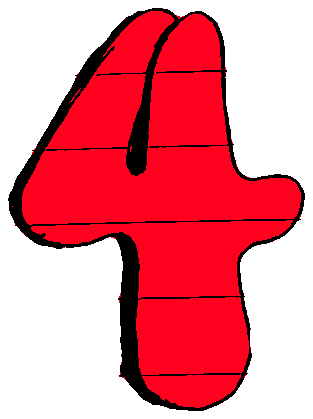
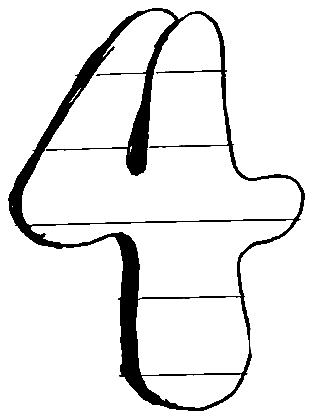
Revert red digits; hand-drawn plus and minus
- Digits back to their original white fill.
- Cart quantity buttons use the new hand-drawn + and − (cut apart from
  one scan, outsides cleared); minus drawn shorter since it's a flat bar.

diff --git a/README.md b/README.md
@@ -34,13 +34,13 @@ Things with an `-on` version need two drawings: normal, and selected (circled, f
 | What | Files | Notes |
 |---|---|---|
 | Logo | `logo` ✓ done | upper left of the header (also used for the app icon) |
-| Digits | `digit-0` … `digit-9` ✓ done | cart count + quantities, filled with the heart red |
+| Digits | `digit-0` … `digit-9` ✓ done | cart count + quantities |
 | Tabs | `tab-shop`, `tab-about`, `tab-cart` ✓ done | selected one gets the drawn underline (`-on` files are generated) |
 | Shop filters | `filter-all` ✓ done. To add a category filter, list it in `CATEGORIES` in `src/data/products.ts` and draw `filter-<name>` + `-on` | |
 | Sizes | `size-s`, `size-m`, `size-l`, `size-xl` + `-on` versions | roughly square |
 | Sold out | `scribble-out` | drawn over sold-out sizes |
 | Buttons | `btn-checkout`, `btn-add-to-cart` (ADD+TO+CART), `btn-back` (← BACK), `btn-keep-shopping` (SHOP →) ✓ done | wide |
-| Small buttons | `btn-plus`, `btn-minus`, `btn-remove` | square, used in the cart |
+| Small buttons | `btn-plus`, `btn-minus` ✓ done, `btn-remove` | used in the cart |
 
 ## Products
 
